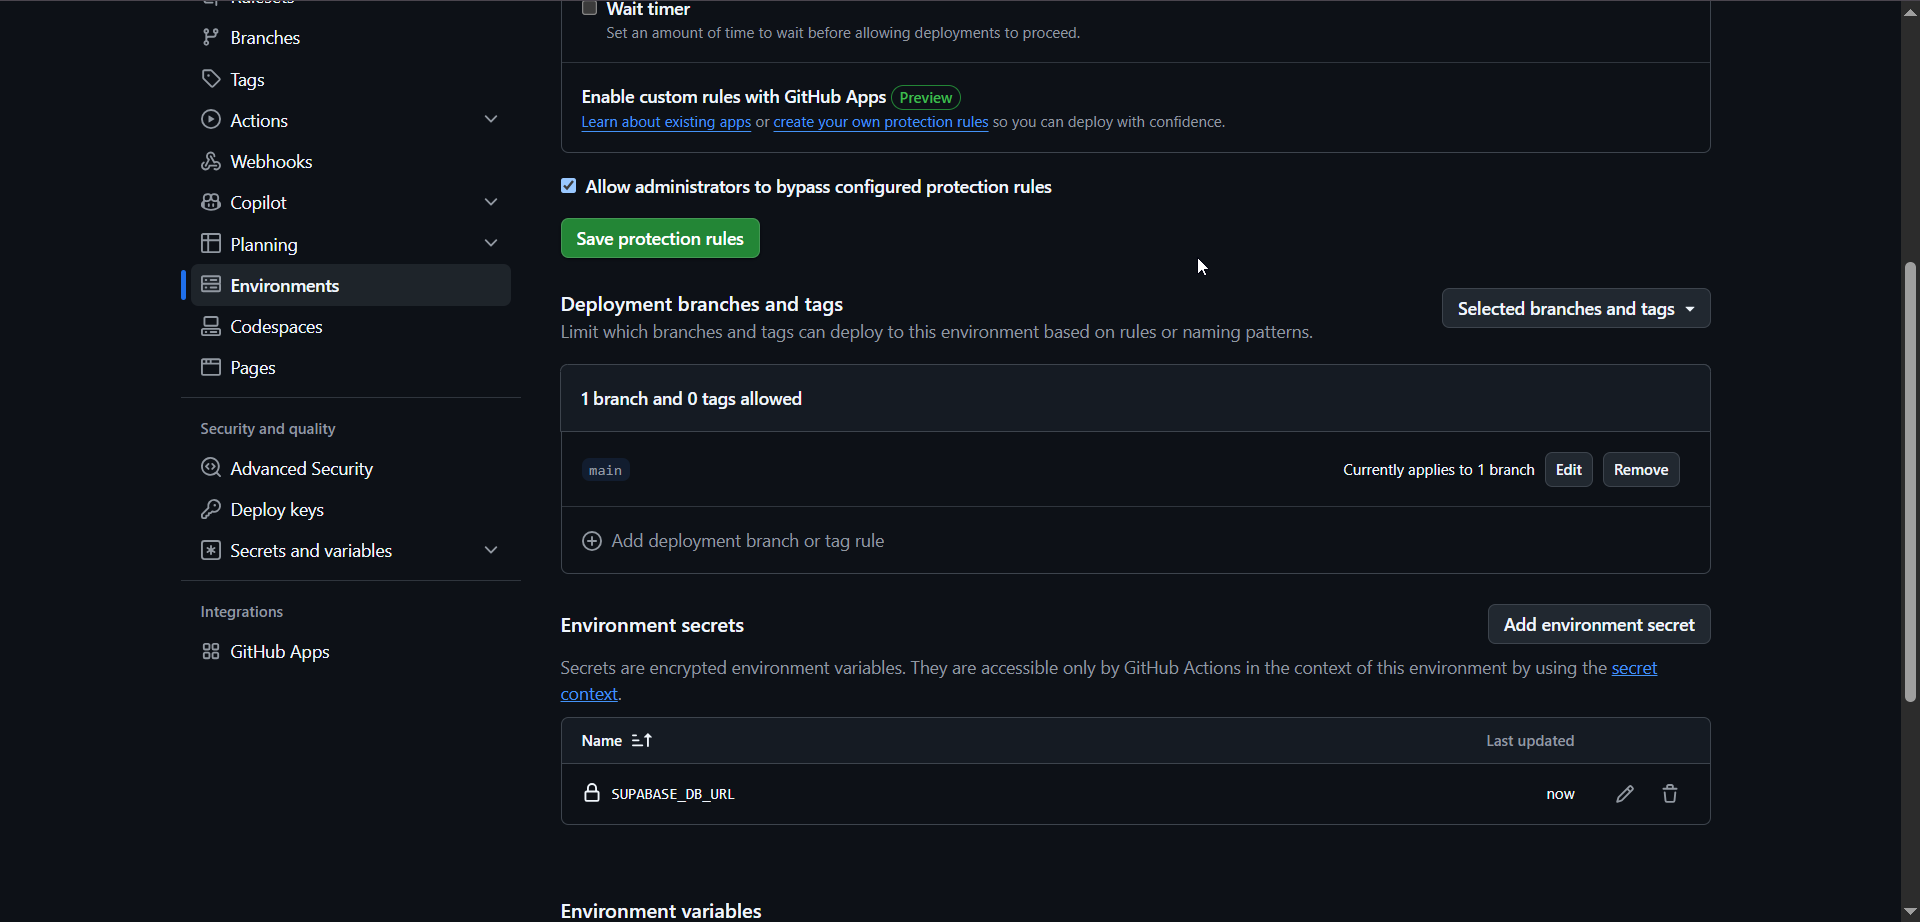
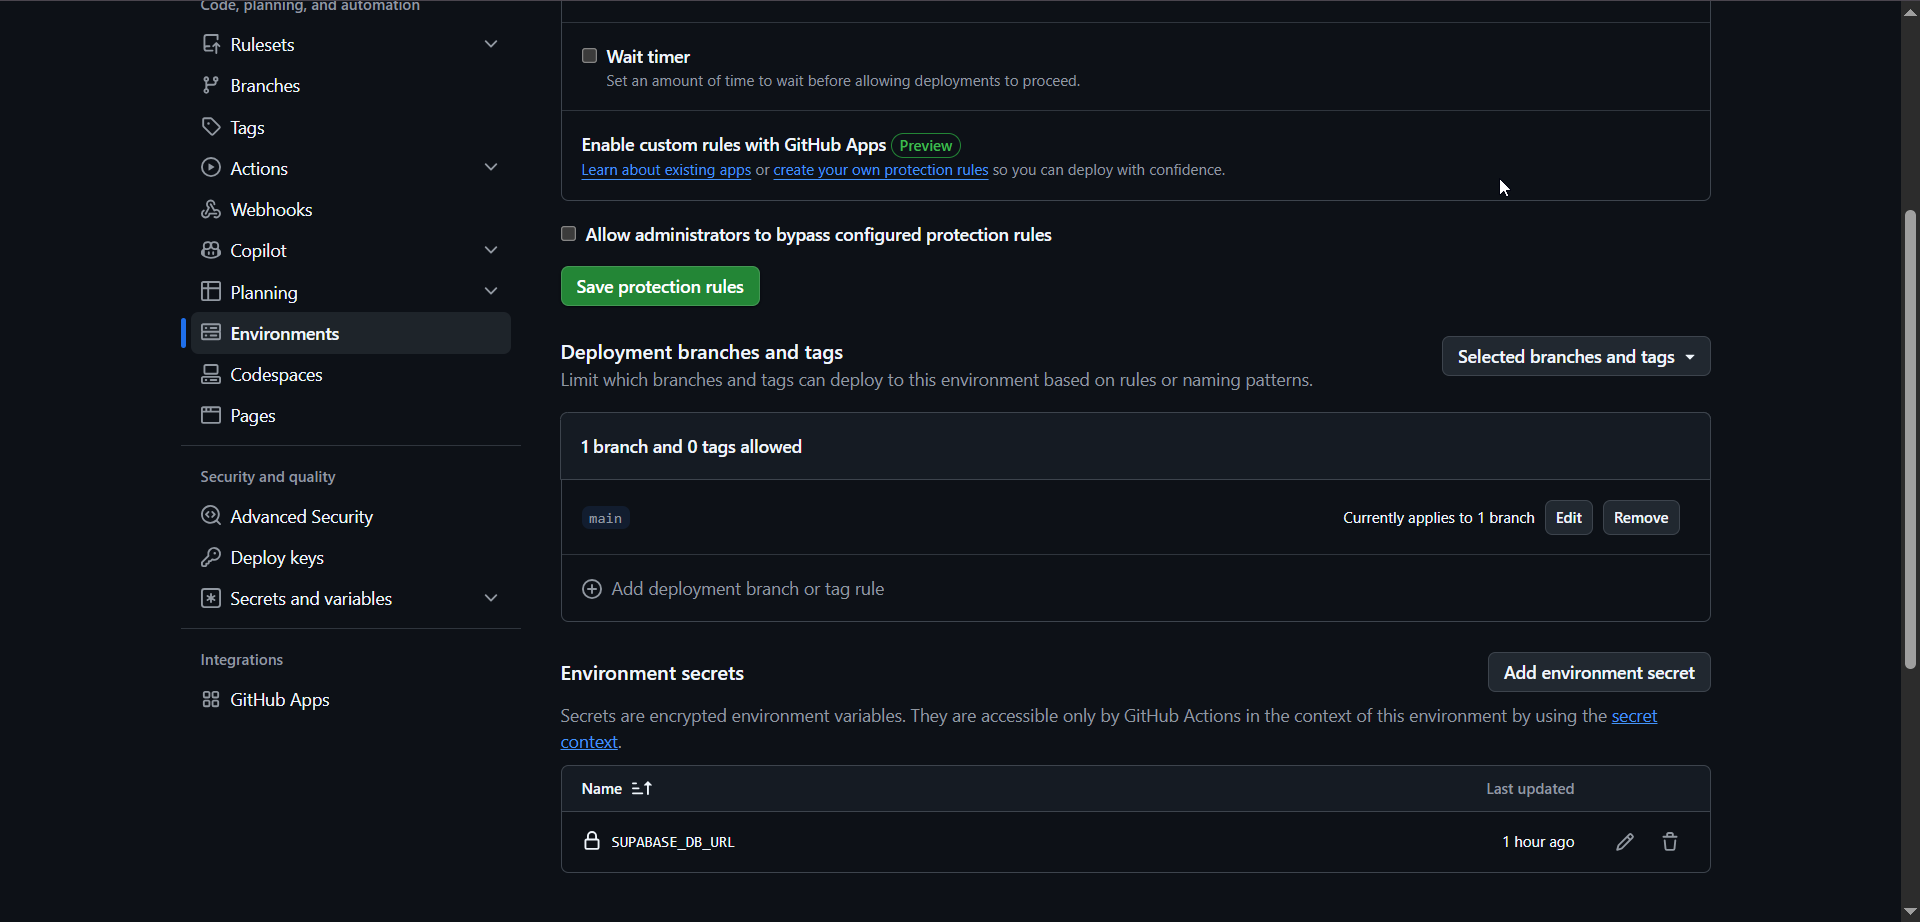
Bootstrap: знімки URL Configuration, змінних Vercel, ruleset; докази розділу 7 (#2)

diff --git a/docs/bootstrap.md b/docs/bootstrap.md
@@ -35,7 +35,8 @@ Docker не потрібен: локально — лише npm run dev прот
       (точні назви й місце перемикачів перевірте в інтерфейсі) — [docs/img/auth-signups.png](img/auth-signups.png), [docs/img/auth-email-provider.png](img/auth-email-provider.png)
 - [x] (Після розділу 4, коли є прод-URL) Authentication → URL Configuration: Site URL = прод-URL Vercel; Redirect URLs
       `http://localhost:3000/**`, `https://*-<slug>.vercel.app/**` — Site URL `https://property-workflows-rho.vercel.app`;
-      Redirect URLs `http://localhost:3000/**`, `https://*-flambs-projects.vercel.app/**`
+      Redirect URLs `http://localhost:3000/**`, `https://*-flambs-projects.vercel.app/**` —
+      [docs/img/auth-url-config.png](img/auth-url-config.png)
 - [x] `.env.local`: `NEXT_PUBLIC_SUPABASE_URL`, `NEXT_PUBLIC_SUPABASE_PUBLISHABLE_KEY`, `SUPABASE_SECRET_KEY`
       (Project Settings → API Keys; точну назву розділу перевірте в інтерфейсі) і `DEMO_USER_PASSWORD` (≥ 8 символів).
       Значення не комітимо й не вставляємо в чат — задано всі чотири змінні (`npm run users:demo` пройшов)
@@ -44,7 +45,8 @@ Docker не потрібен: локально — лише npm run dev прот
 
 - [x] Settings → Environments → `production` (якщо перший прогін CI вже створив його автоматично — відкрийте наявний;
       `Production`, яке створює Vercel для своїх деплоїв, — те саме середовище: регістр у назвах GitHub не розрізняє):
-      **Deployment branches** = Selected branches → `main` — [docs/img/github-env-production.png](img/github-env-production.png)
+      **Deployment branches** = Selected branches → `main`; «Allow administrators to bypass configured protection rules»
+      вимкнено — [docs/img/github-env-production.png](img/github-env-production.png)
 - [x] Секрет environment `SUPABASE_DB_URL` = рядок **Session pooler** (порт **5432**, не 6543) з Supabase → **Connect**;
       пароль у рядку percent-encoded — секрет environment `production`: `SUPABASE_DB_URL`
 - [x] Запасний шлях (лише якщо `--db-url` не працює): секрети environment `SUPABASE_ACCESS_TOKEN`, `SUPABASE_DB_PASSWORD`,
@@ -55,7 +57,8 @@ Docker не потрібен: локально — лише npm run dev прот
 
 - [x] Add New → Project → імпорт вашого репо, Node 24.x — https://property-workflows-rho.vercel.app
 - [x] Змінні Production і Preview — лише `NEXT_PUBLIC_SUPABASE_URL`, `NEXT_PUBLIC_SUPABASE_PUBLISHABLE_KEY`;
-      `SUPABASE_SECRET_KEY` — **ніколи** — у Vercel лише `NEXT_PUBLIC_SUPABASE_URL` і `NEXT_PUBLIC_SUPABASE_PUBLISHABLE_KEY` (Production і Preview)
+      `SUPABASE_SECRET_KEY` — **ніколи** — у Vercel лише `NEXT_PUBLIC_SUPABASE_URL` і `NEXT_PUBLIC_SUPABASE_PUBLISHABLE_KEY` (Production і Preview) —
+      [docs/img/vercel-env.png](img/vercel-env.png)
 - [x] Settings → Deployment Protection → **Require Log In** вимкнено → Save (інакше PM і викладач не відкриють ваші preview;
       точну назву перемикача перевірте в інтерфейсі) — [docs/img/vercel-protection.png](img/vercel-protection.png)
 - [x] Після змінних — редеплой; прод-URL відкривається — https://property-workflows-rho.vercel.app/login
@@ -78,15 +81,20 @@ Docker не потрібен: локально — лише npm run dev прот
       **Squash** і **Merge**; Bypass list — **порожній** (навіть для власника); Enforcement — Active
       (точні назви полів перевірте в інтерфейсі) — ruleset `solo-main` (id 25405104) імпортовано з `solo-main.json` через
       `gh api …/rulesets --method POST`: enforcement active, bypass порожній; rules: deletion, non_fast_forward,
-      pull_request, required_status_checks — https://github.com/OleksandrMartynov/property-workflows/rules/25405104
+      pull_request, required_status_checks — https://github.com/OleksandrMartynov/property-workflows/rules/25405104, [docs/img/ruleset.png](img/ruleset.png)
 
 ## 7. Перший PR (перевірка ruleset-у)
 
-- [ ] `git switch -c setup/bootstrap` → цей файл із доказами розділів 1–6 → push → `gh pr create --web` (тип «Реалізація»)
-      → окремим коментарем `@coderabbitai review` — <!-- посилання на PR (наступним PR) -->
-- [ ] Поки перевірки не зелені, кнопка merge заблокована; push у `main` напряму відхиляється — <!-- знімок -->
-- [ ] Vercel створив preview для PR — <!-- посилання на preview (наступним PR) -->
-- [ ] **Squash and merge** → прод-деплой Vercel пройшов — <!-- посилання -->
+- [x] `git switch -c setup/bootstrap` → цей файл із доказами розділів 1–6 → push → `gh pr create --web` (тип «Реалізація»)
+      → окремим коментарем `@coderabbitai review` — https://github.com/OleksandrMartynov/property-workflows/pull/1
+- [x] Поки перевірки не зелені, кнопка merge заблокована; push у `main` напряму відхиляється — `git push origin HEAD:main`
+      (порожній тестовий коміт): `remote: error: GH013: Repository rule violations found for refs/heads/main` —
+      `Changes must be made through a pull request`, `4 of 4 required status checks are expected`,
+      `! [remote rejected] HEAD -> main (push declined due to repository rule violations)`
+- [x] Vercel створив preview для PR — https://property-workflows-git-setup-bootstrap-flambs-projects.vercel.app
+- [x] **Squash and merge** → прод-деплой Vercel пройшов — коміт `cb8b1e9` у `main`:
+      https://vercel.com/flambs-projects/property-workflows/HPNEDuREhkkxEbpAePjFnRUkjEx3; CI на `main` після merge —
+      https://github.com/OleksandrMartynov/property-workflows/actions/runs/39259418885
 - [ ] (З першою задачею, що має міграцію) `db-check` зелений, після merge `db-deploy` застосував її у вашу базу — <!-- посилання на run -->
 
 ## 8. Вимоги PM і специфікація
